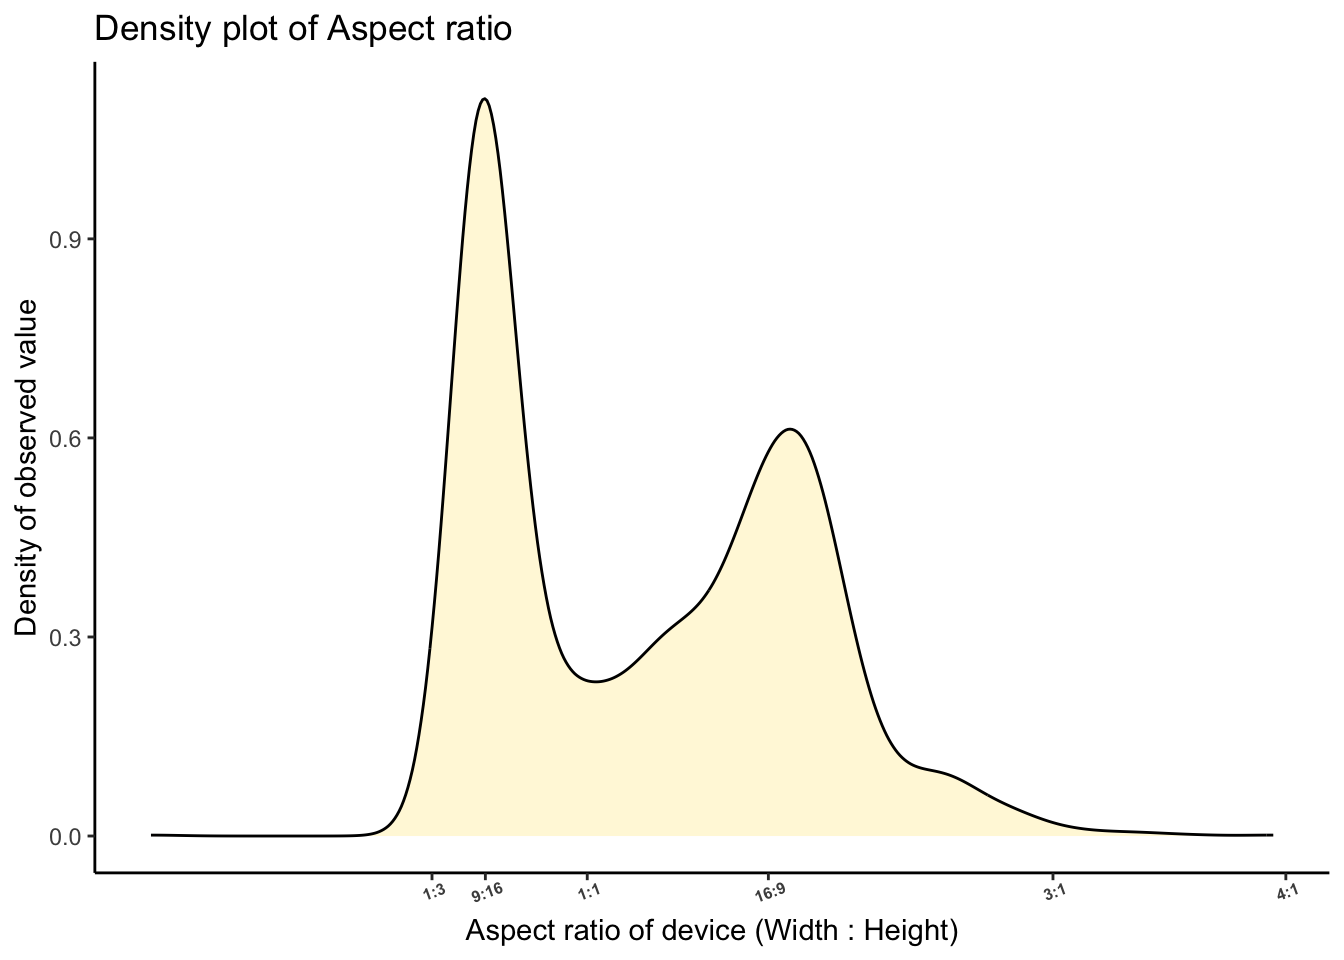
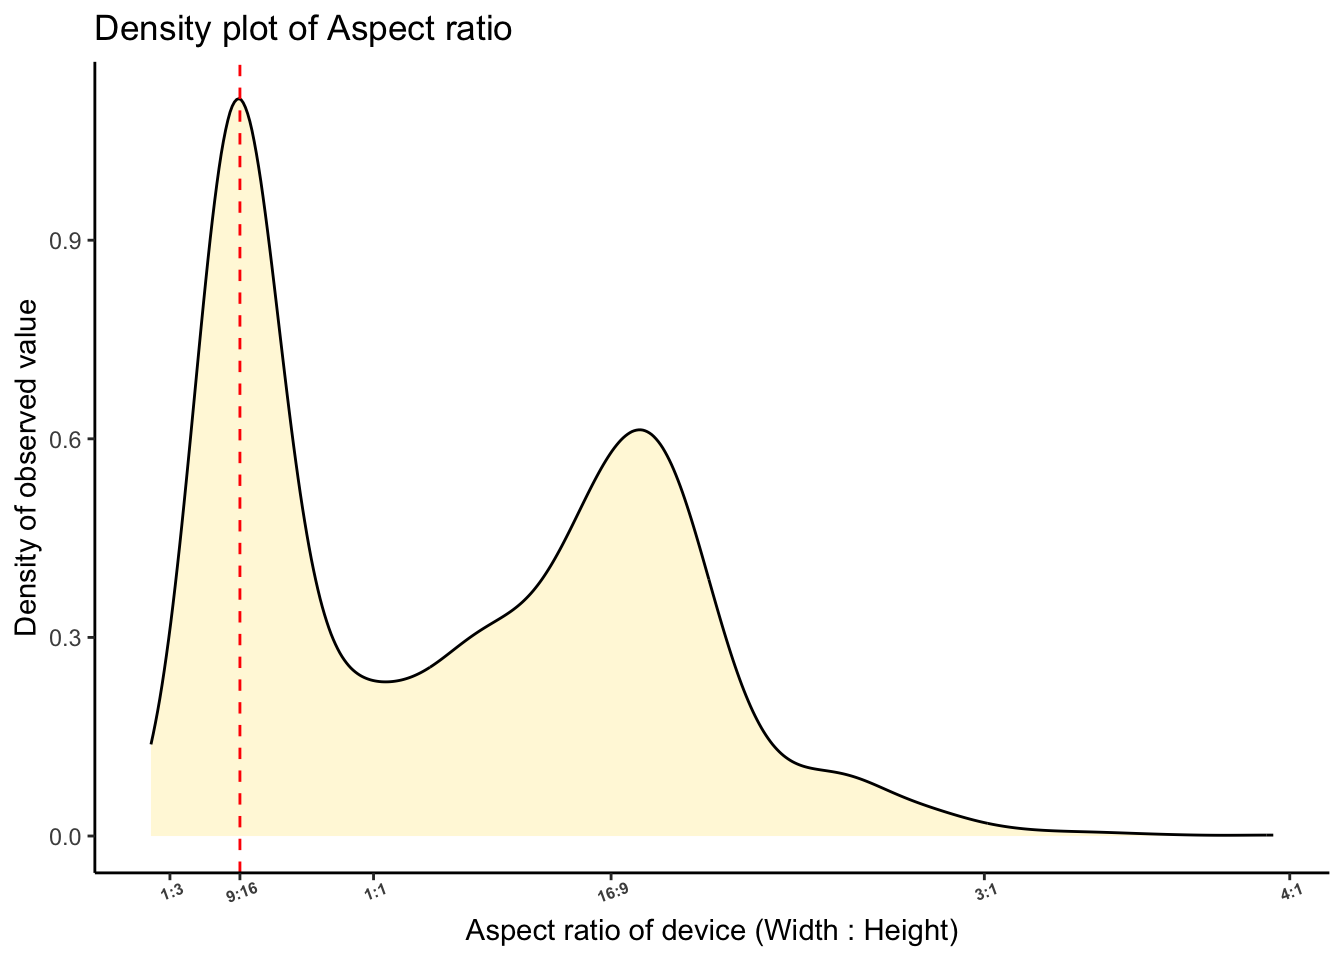
Changes done to null hypotheses in Q5

diff --git a/Q1.html b/Q1.html
@@ -2,7 +2,7 @@
 <html xmlns="http://www.w3.org/1999/xhtml" lang="en" xml:lang="en"><head>
 
 <meta charset="utf-8">
-<meta name="generator" content="quarto-1.3.353">
+<meta name="generator" content="quarto-1.3.450">
 
 <meta name="viewport" content="width=device-width, initial-scale=1.0, user-scalable=yes">
 
@@ -164,9 +164,11 @@ Question C
 </div>
 </div>
 <p>Answer C</p>
+<p>We could observe that one of the rows <strong>had a negative height entry</strong>, as a result of which, the aspect ratio is negative. This is however an impossible event and can be attributed to data entry error. Instead, we shall convert the negative value of the height into a positive value and create the scatter plot.</p>
 <div class="cell">
-<div class="sourceCode cell-code" id="cb2"><pre class="sourceCode r code-with-copy"><code class="sourceCode r"><span id="cb2-1"><a href="#cb2-1" aria-hidden="true" tabindex="-1"></a>pl1 <span class="ot">&lt;-</span> <span class="fu">ggplot</span>(<span class="at">data =</span> v <span class="sc">%&gt;%</span> <span class="fu">drop_na</span>(),<span class="fu">aes</span>(<span class="at">x =</span> Height,<span class="at">y =</span> Width,<span class="at">size=</span>Count)) <span class="sc">+</span> <span class="fu">geom_point</span>(<span class="at">alpha =</span> <span class="fl">0.5</span>) <span class="sc">+</span> <span class="fu">theme</span>(<span class="at">aspect.ratio =</span> <span class="dv">1</span>) <span class="sc">+</span> <span class="fu">lims</span>(<span class="at">x =</span> <span class="fu">c</span>(<span class="dv">0</span>,<span class="dv">7000</span>),<span class="at">y =</span> <span class="fu">c</span>(<span class="dv">0</span>,<span class="dv">7000</span>)) <span class="sc">+</span> <span class="fu">ggtitle</span>(<span class="st">"Height Vs Width of devices"</span>) <span class="sc">+</span> <span class="fu">labs</span>(<span class="at">size =</span> <span class="st">"Number of devices"</span>)</span>
-<span id="cb2-2"><a href="#cb2-2" aria-hidden="true" tabindex="-1"></a>pl1</span></code><button title="Copy to Clipboard" class="code-copy-button"><i class="bi"></i></button></pre></div>
+<div class="sourceCode cell-code" id="cb2"><pre class="sourceCode r code-with-copy"><code class="sourceCode r"><span id="cb2-1"><a href="#cb2-1" aria-hidden="true" tabindex="-1"></a>v<span class="sc">$</span>Height <span class="ot">&lt;-</span> <span class="fu">abs</span>(v<span class="sc">$</span>Height)  <span class="co"># Converting all negative values to positive values</span></span>
+<span id="cb2-2"><a href="#cb2-2" aria-hidden="true" tabindex="-1"></a>pl1 <span class="ot">&lt;-</span> <span class="fu">ggplot</span>(<span class="at">data =</span> v <span class="sc">%&gt;%</span> <span class="fu">drop_na</span>(),<span class="fu">aes</span>(<span class="at">x =</span> Height,<span class="at">y =</span> Width,<span class="at">size=</span>Count)) <span class="sc">+</span> <span class="fu">geom_point</span>(<span class="at">alpha =</span> <span class="fl">0.5</span>) <span class="sc">+</span> <span class="fu">geom_abline</span>(<span class="at">slope =</span> <span class="dv">1</span>,<span class="at">intercept =</span> <span class="dv">0</span>,<span class="at">color=</span><span class="st">'red'</span>,<span class="at">linetype=</span> <span class="st">'dashed'</span>) <span class="sc">+</span> <span class="fu">theme</span>(<span class="at">aspect.ratio =</span> <span class="dv">1</span>) <span class="sc">+</span> <span class="fu">lims</span>(<span class="at">x =</span> <span class="fu">c</span>(<span class="dv">0</span>,<span class="dv">7000</span>),<span class="at">y =</span> <span class="fu">c</span>(<span class="dv">0</span>,<span class="dv">7000</span>)) <span class="sc">+</span> <span class="fu">ggtitle</span>(<span class="st">"Height Vs Width of devices"</span>) <span class="sc">+</span> <span class="fu">labs</span>(<span class="at">size =</span> <span class="st">"Number of devices"</span>)</span>
+<span id="cb2-3"><a href="#cb2-3" aria-hidden="true" tabindex="-1"></a>pl1</span></code><button title="Copy to Clipboard" class="code-copy-button"><i class="bi"></i></button></pre></div>
 <div class="cell-output-display">
 <div id="fig-scat" class="quarto-figure quarto-figure-center anchored">
 <figure class="figure">
@@ -223,7 +225,7 @@ Question E
 <span id="cb4-2"><a href="#cb4-2" aria-hidden="true" tabindex="-1"></a>pl2 <span class="ot">&lt;-</span> <span class="fu">ggplot</span>(<span class="at">data =</span> v <span class="sc">%&gt;%</span> <span class="fu">filter</span>(aspect_ratio<span class="sc">&lt;</span><span class="dv">4</span>), <span class="fu">aes</span>(<span class="at">x =</span> aspect_ratio)) <span class="sc">+</span> <span class="fu">geom_density</span>(<span class="at">fill =</span> <span class="st">"cornsilk"</span>) <span class="sc">+</span> <span class="fu">theme_classic</span>() <span class="sc">+</span> <span class="fu">labs</span>(<span class="at">x =</span> <span class="st">"Aspect ratio of device (Width : Height)"</span>,<span class="at">y =</span>  <span class="st">"Density of observed value"</span>) <span class="sc">+</span> <span class="fu">ggtitle</span>(<span class="st">"Density plot of Aspect ratio"</span>) <span class="sc">+</span> </span>
 <span id="cb4-3"><a href="#cb4-3" aria-hidden="true" tabindex="-1"></a>  <span class="fu">lims</span>(<span class="at">x =</span> <span class="fu">c</span>(<span class="dv">0</span>,<span class="dv">4</span>)) <span class="sc">+</span></span>
 <span id="cb4-4"><a href="#cb4-4" aria-hidden="true" tabindex="-1"></a>  <span class="fu">scale_x_continuous</span>(<span class="at">labels =</span> axis_labels,<span class="at">breaks =</span> <span class="fu">c</span>(<span class="dv">1</span><span class="sc">/</span><span class="dv">3</span>,<span class="dv">9</span><span class="sc">/</span><span class="dv">16</span>,<span class="dv">1</span>,<span class="dv">16</span><span class="sc">/</span><span class="dv">9</span>,<span class="dv">3</span><span class="sc">/</span><span class="dv">1</span>,<span class="dv">4</span><span class="sc">/</span><span class="dv">1</span>)) <span class="sc">+</span> </span>
-<span id="cb4-5"><a href="#cb4-5" aria-hidden="true" tabindex="-1"></a>  <span class="fu">theme</span>(<span class="at">axis.text.x =</span> <span class="fu">element_text</span>(<span class="at">angle =</span> <span class="dv">20</span>,<span class="at">size =</span> <span class="dv">6</span>,<span class="at">face =</span> <span class="st">'bold'</span>)) </span>
+<span id="cb4-5"><a href="#cb4-5" aria-hidden="true" tabindex="-1"></a>  <span class="fu">theme</span>(<span class="at">axis.text.x =</span> <span class="fu">element_text</span>(<span class="at">angle =</span> <span class="dv">20</span>,<span class="at">size =</span> <span class="dv">6</span>,<span class="at">face =</span> <span class="st">'bold'</span>)) <span class="sc">+</span> <span class="fu">geom_vline</span>(<span class="at">xintercept =</span> <span class="dv">9</span><span class="sc">/</span><span class="dv">16</span>,<span class="at">linetype =</span> <span class="st">'dashed'</span>,<span class="at">color=</span><span class="st">'red'</span>) </span>
 <span id="cb4-6"><a href="#cb4-6" aria-hidden="true" tabindex="-1"></a>pl2</span></code><button title="Copy to Clipboard" class="code-copy-button"><i class="bi"></i></button></pre></div>
 <div class="cell-output-display">
 <div id="fig-dense" class="quarto-figure quarto-figure-center anchored">

diff --git a/Q5.html b/Q5.html
@@ -89,8 +89,8 @@ Question A
 </div>
 <p>Answer A</p>
 <div class="alert alert-block alert-warning">
-<p><span class="math inline">\(H_o\)</span> : There is no difference in the distribution of x1 between the levels of cl.</p>
-<p>Null generating mechanism: Permutation of the x1 variable by using the null_permute function.</p>
+<p><span class="math inline">\(H_o\)</span> : <strong>There is no difference in the distribution of x1 between the levels of cl</strong>.</p>
+<p>Null generating mechanism: <strong>Permutation of the cl variable by using the null_permute function</strong> to generate the required null plot.</p>
 </div>
 <div class="callout callout-style-default callout-note callout-titled">
 <div class="callout-header d-flex align-content-center">
@@ -109,8 +109,8 @@ Question B
 </div>
 <p>Answer B</p>
 <div class="alert alert-block alert-warning">
-<p><span class="math inline">\(H_o\)</span> : The distribution of the temperature of stars (temp) is normal.</p>
-<p>Null generating mechanism: Permutation of the distribution by setting it to “normal” using the null_dist function.</p>
+<p><span class="math inline">\(H_o\)</span> : <strong>The distribution of the temperature of stars (temp) is a normal distribution</strong>.</p>
+<p>Null generating mechanism: <strong>Permutation of the distribution by setting it to “normal” using the null_dist function</strong>.</p>
 </div>
 <div class="callout callout-style-default callout-note callout-titled">
 <div class="callout-header d-flex align-content-center">
@@ -129,8 +129,8 @@ Question C
 </div>
 <p>Answer C</p>
 <div class="alert alert-block alert-warning">
-<p><span class="math inline">\(H_o\)</span> : There is no difference significant difference in the distribution of percentage for the different rooms between the cases with missing or no missing values.</p>
-<p>Null generating mechanism: Permutation of the miss variable by using the null_permute function.</p>
+<p><span class="math inline">\(H_o\)</span> : <strong>There is no significant difference in the distribution of percentage for the different rooms between the cases with missing or no missing values</strong>.</p>
+<p>Null generating mechanism: <strong>Permutation of the “miss” variable by using the null_permute function</strong>.</p>
 </div>
 <div class="callout callout-style-default callout-note callout-titled">
 <div class="callout-header d-flex align-content-center">
@@ -154,8 +154,8 @@ Note
 </div>
 <p>Answer D</p>
 <div class="alert alert-block alert-warning">
-<p><span class="math inline">\(H_o\)</span> : There is a linear relationship between height and weight of athletes for all the different sports. Hence, there is no difference among the different kind of sports.</p>
-<p>Null generating mechanism: Null linear model (null_lm) can be used to create null plots for a linear relationship between weight and height.</p>
+<p><span class="math inline">\(H_o\)</span> : <strong>There is no significant linear relationship between height and weight across different sports in the Olympic dataset.</strong>.</p>
+<p>Null generating mechanism: <strong>Permutation (null_permute) can be used on the variable “sport” to create null plots for the linear relationship between weight and height of different categories of sports</strong>.</p>
 </div>
 <div class="callout callout-style-default callout-note callout-titled">
 <div class="callout-header d-flex align-content-center">
@@ -177,8 +177,8 @@ Note
 </div>
 <p>Answer E</p>
 <div class="alert alert-block alert-warning">
-<p><span class="math inline">\(H_o\)</span> : The residuals in the housing dataset follow a normal distribution.</p>
-<p>Null generating mechanism: Permutation of the residuals (.resid) by using the null_permute function.</p>
+<p><span class="math inline">\(H_o\)</span> : <strong>The residuals in the housing dataset follow a normal distribution</strong>.</p>
+<p>Null generating mechanism: <strong>Permutation of the residuals (.resid) by using the null_permute function</strong>.</p>
 </div>
 </section>
 
